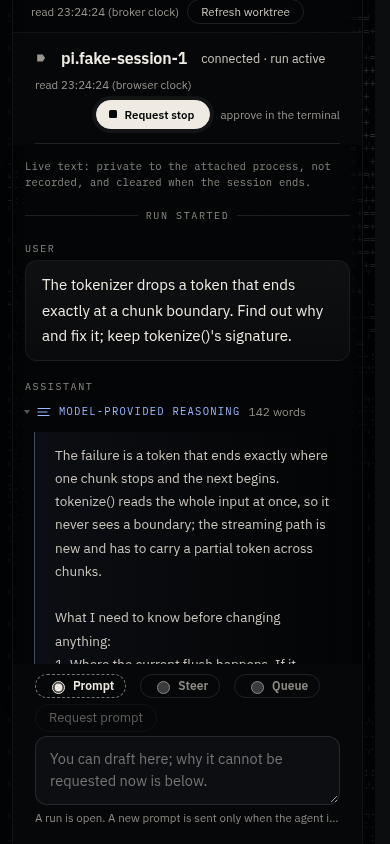
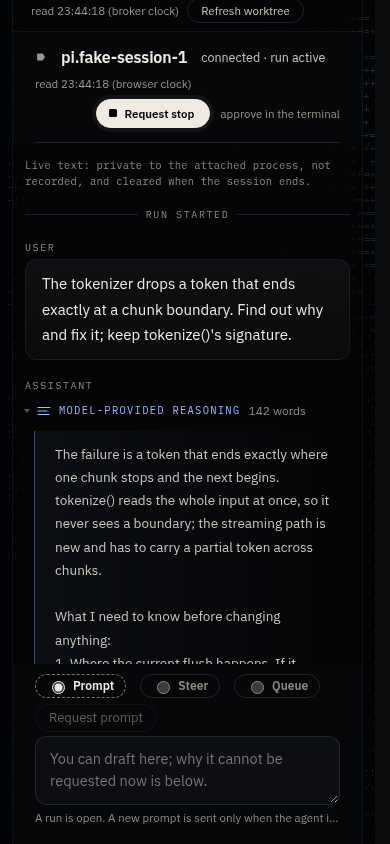
fix(develop): bound the message being written by text too, explain a conversation with no reasoning, wrap a trace's head
The in-progress snapshot now holds a completed message's text budget as
well as its reasoning budget. A conversation whose model supplied no
structured reasoning says why none is shown (and that <think> text is the
answer's text) instead of looking broken. A trace's head wraps as a whole
on a narrow column (Instrument at 390 px squeezed its size to one character
a line). The leak test runs two turns; the docs state precisely that a
recording proxy, where an operator uses one, keeps raw bodies by design and
that this change does not alter that.

Claude-Session: https://claude.ai/code/session_01DgJurqTC52YxUentXHPrdJ

diff --git a/studio-ui/src/model/reasoning.ts b/studio-ui/src/model/reasoning.ts
@@ -6,7 +6,7 @@
 //
 // Display, not configuration: the operator's choice to fold or show reasoning changes what this page draws. It never touches the model's
 // thinking setting, and it is held in page memory only (a reload is the default again).
-import type { MessagePart, ReasoningPart, TranscriptMessage } from "./workbench-wire.ts";
+import type { MessagePart, OpenMessage, ReasoningPart, ReasoningRelay, TranscriptItem } from "./workbench-wire.ts";
 
 /** Folded: each trace is a one-line disclosure. Shown: each trace is open as it arrives. Either way a trace can be opened or folded alone. */
 export type ReasoningMode = "folded" | "shown";
@@ -80,10 +80,29 @@ export function reasoningParts(
 	return out;
 }
 
-/** Whether any reasoning was supplied in a conversation. Only the count of messages with any: never a measure of the reasoning itself. */
-export const messagesWithReasoning = (items: readonly { kind: string }[]): number =>
-	items.filter((i) => i.kind === "message" && (i as TranscriptMessage).parts.some((p) => p.kind === "reasoning"))
-		.length;
+/** How many messages carry any reasoning part. Only a count: never a measure of the reasoning itself. */
+export const messagesWithReasoning = (items: readonly TranscriptItem[]): number =>
+	items.filter((i) => i.kind === "message" && i.parts.some((p) => p.kind === "reasoning")).length;
+
+/**
+ * One sentence for a conversation that shows no reasoning, so its absence is explained rather than looking broken; null when there is
+ * nothing to say (the source relays reasoning and some has arrived, or nothing has been said yet). It never guesses why a model gave none.
+ */
+export function reasoningNotice(
+	relay: ReasoningRelay | null,
+	items: readonly TranscriptItem[],
+	open: OpenMessage | null,
+): string | null {
+	if (relay === null) return null;
+	if (relay.relay === "withheld")
+		return relay.reason ?? "This source withholds model-provided reasoning: none is shown here.";
+	if (relay.relay === "unsupported")
+		return relay.reason ?? "This source does not provide model-provided reasoning: none is shown here.";
+	const assistant = items.some((i) => i.kind === "message" && i.role === "assistant");
+	const anyOpen = open?.parts.some((p) => p.kind === "reasoning") ?? false;
+	if (!assistant || messagesWithReasoning(items) > 0 || anyOpen) return null;
+	return "No model-provided reasoning in this conversation so far. It is shown only when the model supplies it as structured reasoning; reasoning written inside an answer (in <think> tags, for example) is part of the answer's text.";
+}
 
 /** One clause for a trace's head: its place among the message's traces, its size, and what is not shown. */
 export function traceMeta(part: ReasoningPart, ordinal: number, count: number): string {

diff --git a/tests/endo-studio-reasoning-model.test.ts b/tests/endo-studio-reasoning-model.test.ts
@@ -8,6 +8,7 @@ import {
 	formatBytes,
 	preview,
 	reasoningKey,
+	reasoningNotice,
 	traceMeta,
 	utf8Length,
 	visibleText,
@@ -210,6 +211,53 @@ describe("the message being written, in the page's state", () => {
 		expect(held).toBeLessThanOrEqual(MAX_TEXT);
 		expect(s.trimmed).toBe(60 - s.items.length);
 		expect(s.items.at(-1)?.seq).toBe(60);
+	});
+});
+
+describe("a conversation that shows no reasoning says why", () => {
+	const msg = (
+		role: "user" | "assistant",
+		parts: TranscriptItem extends infer _ ? unknown[] : never,
+	): TranscriptItem =>
+		({
+			seq: 1,
+			kind: "message",
+			role,
+			parts,
+			truncated: false,
+			partsDropped: 0,
+			stopReason: null,
+			from: null,
+		}) as TranscriptItem;
+	const relayed = { relay: "relayed" as const, reason: null };
+	it("says nothing before the source has spoken, or before the model has answered, or once reasoning has arrived", () => {
+		expect(reasoningNotice(null, [], null)).toBeNull();
+		expect(
+			reasoningNotice(relayed, [msg("user", [{ kind: "text", text: "hi", truncated: false }])], null),
+		).toBeNull();
+		const withTrace = msg("assistant", [
+			{ kind: "reasoning", state: "supplied", text: "r", truncated: false, bytes: 1 },
+		]);
+		expect(reasoningNotice(relayed, [withTrace], null)).toBeNull();
+		const plain = msg("assistant", [{ kind: "text", text: "<think>x</think>ok", truncated: false }]);
+		expect(
+			reasoningNotice(relayed, [plain], {
+				id: 1,
+				afterSeq: 1,
+				parts: [{ kind: "reasoning", state: "supplied", text: "r", truncated: false, bytes: 1 }],
+			}),
+		).toBeNull();
+	});
+	it("explains an answer without reasoning, and a source that withholds it or has none, never guessing the model's setting", () => {
+		const plain = msg("assistant", [{ kind: "text", text: "<think>x</think>ok", truncated: false }]);
+		const none = reasoningNotice(relayed, [plain], null);
+		expect(none).toMatch(/No model-provided reasoning in this conversation so far/);
+		expect(none).toMatch(/<think>/);
+		expect(none).not.toMatch(/thinking level|turned off|disabled/i);
+		expect(reasoningNotice({ relay: "withheld", reason: null }, [plain], null)).toMatch(/withholds/);
+		expect(reasoningNotice({ relay: "unsupported", reason: "The host has none." }, [], null)).toBe(
+			"The host has none.",
+		);
 	});
 });
 

diff --git a/tests/pi-reasoning-leak.test.ts b/tests/pi-reasoning-leak.test.ts
@@ -1,8 +1,9 @@
 // Model-provided reasoning, end to end through the attached process: a model endpoint that streams `reasoning_content` (as llama.cpp's
-// server does), a Pi that turns it into structured thinking blocks, the attachment, and the workbench broker. Reasoning must reach the
-// broker's private transcript and nothing durable Endophasia writes: not the event store, not the runtime-text side store, not the
-// harness or artifact records. Pi keeps its own session file, as it always does (that is Pi's retention, not Endophasia's evidence), so
-// the scan below leaves Pi's session directory out and says so.
+// server does), a Pi that turns it into structured thinking blocks, the attachment, and the workbench broker, over two turns. Reasoning
+// must reach the broker's private transcript and nothing durable Endophasia writes: not the event store, not the runtime-text side store,
+// not the harness or artifact records. Pi keeps its own session file, as it always does (that is Pi's retention, not Endophasia's
+// evidence), so the scan below leaves Pi's session directory out and says so. No recording proxy is in this path: a proxy, where an
+// operator puts one, records raw HTTP bodies by design (docs/develop-reasoning.md §4), and this change does not alter what it records.
 //
 // The first suite runs always, against the fake Pi (tests/fixtures/fake-pi) in its model-endpoint mode. The second runs only when
 // ENDO_PI_EXECUTABLE names an installed Pi; it is the same check with the real Pi's own openai-completions provider.
@@ -87,8 +88,12 @@ async function run(executable: string, extraEnv: Record<string, string>) {
 			attachment: "pi.default",
 			approver: new Approval().approver,
 		});
-		expect(await session.prompt("Say something short.")).toBe("started");
-		expect(await session.waitForSettled(60_000)).toBe(true);
+		// Two turns: the second model request carries the first turn back to the model (whatever Pi replays of it), so a durable record
+		// made of that request would show here too.
+		for (const prompt of ["Say something short.", "And once more."]) {
+			expect(await session.prompt(prompt)).toBe("started");
+			expect(await session.waitForSettled(60_000)).toBe(true);
+		}
 		const view = broker.transcript.view();
 		await session.close();
 		broker.endSession();

diff --git a/tests/endo-studio-reasoning-browser.test.ts b/tests/endo-studio-reasoning-browser.test.ts
@@ -288,6 +288,44 @@ for (const appearance of ["instrument", "field"] as const) {
 	});
 });
 
+suite("a conversation without model-provided reasoning", () => {
+	it("says why none is shown, and stops saying it once a trace arrives", async () => {
+		const session = new FakeSession();
+		const broker = new WorkbenchBrokerV0({
+			session,
+			key: OTHER_KEY,
+			attachment: "pi.default",
+			approver: new Approval().approver,
+		});
+		const server = await serve(developStore(), { ui, workbench: broker, readBudget: { duty: 1, burstMs: 1e6 } });
+		session.live_(user("Hello."));
+		session.live_(assistant([{ type: "text", text: "<think>not structured</think>Hi." }]));
+		const page = await browser.open(1440, 900);
+		tabs.push(page);
+		await page.goto(`${server.baseUrl}/`);
+		await page.settled();
+		await page.click("button[data-workspace=develop]");
+		await page.waitFor("document.querySelector('[data-testid=live-row]')");
+		await fill(page, "[data-testid=pair-code]", broker.issuePairingCode().code);
+		await page.click("[data-testid=pair-submit]");
+		await page.waitFor("document.querySelector('[data-testid=reasoning-none]')");
+		expect(await page.text("[data-testid=reasoning-none]")).toContain(
+			"No model-provided reasoning in this conversation so far",
+		);
+		expect(await page.text("[data-testid=turn-assistant] .turn-text")).toBe("<think>not structured</think>Hi.");
+		expect(await page.eval<number>("document.querySelectorAll('[data-testid=reasoning]').length")).toBe(0);
+		session.live_(
+			assistant([
+				{ type: "thinking", thinking: "Now structured." },
+				{ type: "text", text: "Done." },
+			]),
+		);
+		await reread(page);
+		await page.waitFor("!document.querySelector('[data-testid=reasoning-none]')");
+		expect(await page.eval<number>("document.querySelectorAll('[data-testid=reasoning]').length")).toBe(1);
+	});
+});
+
 suite("model-provided reasoning across appearances", () => {
 	it("keeps the preference, the hand-opened traces and the draft when the appearance changes", async () => {
 		const { page } = await live("instrument");

diff --git a/studio-ui/src/studio.css b/studio-ui/src/studio.css
@@ -1938,12 +1938,13 @@ table.fields thead th {
 	margin-top: 6px;
 }
 
+/* The head wraps: on a narrow column the size and the preview move to their own lines rather than squeezing to nothing. */
 .reasoning-toggle,
 .reasoning-line {
-	display: grid;
-	grid-template-columns: auto auto auto minmax(0, 1fr);
+	display: flex;
+	flex-wrap: wrap;
 	align-items: center;
-	column-gap: 8px;
+	gap: 2px 8px;
 	width: 100%;
 	margin: 0;
 	padding: 3px 6px 3px 2px;
@@ -1953,10 +1954,6 @@ table.fields thead th {
 	font: inherit;
 	text-align: left;
 	color: var(--fg-3);
-}
-
-.reasoning-line {
-	grid-template-columns: auto auto minmax(0, 1fr);
 }
 
 .reasoning-toggle {
@@ -1977,6 +1974,7 @@ table.fields thead th {
 }
 
 .reasoning-chevron {
+	flex: none;
 	width: 0;
 	height: 0;
 	border-left: 4px solid currentColor;
@@ -1992,6 +1990,7 @@ table.fields thead th {
 
 .strata {
 	display: block;
+	flex: none;
 	color: var(--rep);
 }
 
@@ -2023,7 +2022,8 @@ table.fields thead th {
 
 /* Folded, the first words of the trace follow on the next line, one line only, in the quietest text colour. */
 .reasoning-preview {
-	grid-column: 3 / -1;
+	flex: 1 0 100%;
+	padding-left: 34px;
 	min-width: 0;
 	overflow: hidden;
 	white-space: nowrap;
@@ -2079,6 +2079,11 @@ table.fields thead th {
 	margin: 8px 0 0;
 	font-size: 11.5px;
 	color: var(--fg-3);
+}
+
+.reasoning-notice {
+	margin: 0 0 10px;
+	max-width: 80ch;
 }
 
 /* The display preference: a small radio pair in the conversation's header. */

diff --git a/tests/endo-workbench-reasoning.test.ts b/tests/endo-workbench-reasoning.test.ts
@@ -4,6 +4,7 @@
 import { describe, expect, it } from "vitest";
 import {
 	LIVE_TRANSCRIPT_MAX_BYTES_V0,
+	LIVE_TRANSCRIPT_MAX_MESSAGE_BYTES_V0,
 	LIVE_TRANSCRIPT_MAX_PARTS_V1,
 	LIVE_TRANSCRIPT_MAX_REASONING_BLOCK_BYTES_V1,
 	LIVE_TRANSCRIPT_MAX_REASONING_MESSAGE_BYTES_V1,
@@ -337,6 +338,21 @@ describe("the message being written", () => {
 		expect(part.bytes).toBe(40_000 * 5);
 		expect(Buffer.byteLength(part.text)).toBeLessThanOrEqual(LIVE_TRANSCRIPT_MAX_REASONING_BLOCK_BYTES_V1);
 		expect(part.text.includes("�")).toBe(false);
+	});
+
+	it("holds the snapshot to a completed message's budgets: text across its text parts, reasoning across its reasoning parts", () => {
+		const t = new LiveTranscriptV0();
+		t.push(start());
+		for (let i = 0; i < LIVE_TRANSCRIPT_MAX_PARTS_V1; i++)
+			t.push(
+				update({ type: i % 2 === 0 ? "text_delta" : "thinking_delta", contentIndex: i, delta: "x".repeat(40_000) }),
+			);
+		const parts = t.view().open!.parts;
+		const sum = (kind: string) =>
+			parts.filter((p) => p.kind === kind).reduce((n, p) => n + Buffer.byteLength(p.text), 0);
+		expect(sum("text")).toBeLessThanOrEqual(LIVE_TRANSCRIPT_MAX_MESSAGE_BYTES_V0);
+		expect(sum("reasoning")).toBeLessThanOrEqual(LIVE_TRANSCRIPT_MAX_REASONING_MESSAGE_BYTES_V1);
+		expect(parts.filter((p) => p.truncated).length).toBeGreaterThan(0);
 	});
 
 	it("is cleared with the session and nothing is taken after", () => {

diff --git a/studio-ui/src/develop/Live.tsx b/studio-ui/src/develop/Live.tsx
@@ -16,7 +16,14 @@ import {
 } from "react";
 import { presentLivePi } from "../model/develop-session.ts";
 import { REASON_WORDS } from "../model/project.ts";
-import { type Disclosure, disclosureOf, type ReasoningMode, reasoningKey, reasoningParts } from "../model/reasoning.ts";
+import {
+	type Disclosure,
+	disclosureOf,
+	type ReasoningMode,
+	reasoningKey,
+	reasoningNotice,
+	reasoningParts,
+} from "../model/reasoning.ts";
 import {
 	COMMAND_WORDS,
 	commandOpen,
@@ -441,8 +448,14 @@ function Transcript({ wb, reasoning }: { wb: Workbench; reasoning: ReasoningView
 			/>,
 		);
 	const dropped = state.evicted + state.trimmed;
+	const notice = reasoningNotice(state.reasoning, state.items, state.open);
 	return (
 		<>
+			{notice === null ? null : (
+				<p className="dim small reasoning-notice" data-testid="reasoning-none">
+					{notice}
+				</p>
+			)}
 			{dropped > 0 ? (
 				<Note>Earlier items are no longer held here ({dropped} dropped to stay within the limit).</Note>
 			) : null}

diff --git a/adapters/pi/live-transcript.ts b/adapters/pi/live-transcript.ts
@@ -335,11 +335,17 @@ export class LiveTranscriptV0 {
 	#openView(): LiveTranscriptOpenV1 | null {
 		const open = this.#open;
 		if (open === null) return null;
+		// The same per-message budgets as a completed message: text across its text parts, reasoning across its reasoning parts.
+		let textLeft = LIVE_TRANSCRIPT_MAX_MESSAGE_BYTES_V0;
 		let reasoningLeft = LIVE_TRANSCRIPT_MAX_REASONING_MESSAGE_BYTES_V1;
 		const parts: LiveTranscriptPartV1[] = [...open.blocks.entries()]
 			.sort(([a], [b]) => a - b)
 			.map(([, block]): LiveTranscriptPartV1 => {
-				if (block.kind === "text") return { kind: "text", text: block.text, truncated: block.truncated };
+				if (block.kind === "text") {
+					const shown = cut(block.text, textLeft);
+					textLeft -= bytes(shown.text);
+					return { kind: "text", text: shown.text, truncated: block.truncated || shown.truncated };
+				}
 				const shown = cut(block.text, reasoningLeft);
 				reasoningLeft -= bytes(shown.text);
 				return {

diff --git a/docs/develop-reasoning.md b/docs/develop-reasoning.md
@@ -68,6 +68,7 @@ All in UTF-8 bytes. A cut is made at a character boundary, in linear time, and i
 | The whole transcript | 400 items and 2 MiB of text and reasoning together | oldest items evicted **whole**, counted in `evicted` |
 | One page | 200 items and 512 KiB (always at least one item) | `more: true`; the page reads up to five pages per read |
 | A streamed block | the same per-block bound, counted incrementally (no re-measuring per delta) | cut, received bytes still counted |
+| The message being written | the same per-message budgets as a completed message (32 KiB text, 96 KiB reasoning, 32 parts) | cut, marked |
 | The page's own copy | 400 items and 2 Mi UTF-16 units | oldest items let go, counted, and said: "Earlier items are no longer held here (n dropped …)" |
 
 An item is never changed after it is issued, because the page never re-reads a sequence number it holds, so eviction removes items
@@ -89,10 +90,16 @@ Reasoning is treated exactly as the live transcript's text always was, because i
   `tests/endo-studio-ui-source.test.ts` checks the `fieldSignal(...)` call.
 - **Pi's own retention is Pi's.** Pi keeps its session file, thinking included, as it always does. That is not Endophasia's evidence,
   and the leak test below says so by leaving Pi's session directory out of its scan.
+- **A recording proxy records what passes through it.** If the operator routes the model's traffic through Endophasia's recording
+  proxy (the capture that consumption checks read), the proxy keeps raw HTTP request and response bodies in `<store>/capture/blobs/`,
+  outside canonical evidence, by design. Those bodies already hold whatever reasoning the provider streamed, and whatever Pi replays
+  of earlier turns. They hold it exactly as they hold the answer text. This change does not add to, read from or alter that record.
+  The transcript and everything built here write nothing.
 
-`tests/pi-reasoning-leak.test.ts` drives a model endpoint that streams `reasoning_content` with a sentinel, through a Pi, the attachment
-and the broker. It checks that the sentinel reaches the transcript as a reasoning part and **no byte of it is in any file under the
-store** (events, side store, harness and artifact records). It runs always against the fake Pi, and with `ENDO_PI_EXECUTABLE` against an
+`tests/pi-reasoning-leak.test.ts` drives a model endpoint that streams `reasoning_content` with a sentinel, over **two turns** (so the
+second request carries the first back), through a Pi, the attachment and the broker. No recording proxy is in that path. It checks that the
+sentinel reaches the transcript as a reasoning part and **no byte of it is in any file under the store** (events, side store, harness and
+artifact records), outside Pi's own session directory. It runs always against the fake Pi, and with `ENDO_PI_EXECUTABLE` against an
 installed Pi. It was run against Pi 1.0.1 for this change, where Pi's own provider turned the stream into a thinking block, in order
 before the answer.
 
@@ -144,6 +151,9 @@ Both appearances share these components (`develop/Reasoning.tsx`, `model/reasoni
   re-judges that, so a long trace opened near the bottom is read from its top. The next arrival does not pull the reader down. The
   message being written grows without the "New items below" cue. Turns are memoised by item, so a read that brings nothing new for a turn
   does not redraw it.
+- **A conversation with no reasoning says so.** When the source relays reasoning but no answer has carried any, one line under the
+  privacy note explains that reasoning is shown only when supplied in structured form, and that `<think>` text inside an answer is the
+  answer's text. It never guesses the model's setting. A source that withholds reasoning or has none gives its own reason.
 - **Keyboard and assistive technology.** Disclosures are buttons with `aria-expanded` and `aria-controls`. The preference is a radio group
   with a legend. Folded bodies are not in the DOM.
 

diff --git a/docs/develop-field.md b/docs/develop-field.md
@@ -210,6 +210,15 @@ screenshots of both appearances at 390 px, 1180, 1366, 1440 and 2560.
 1. Brightening the terrain made it show through the ledger's words in the live arrival: a legibility regression from pass 2. The
    arrival surface now has its own dark clearing behind the text, with the terrain kept at its edges.
 
+**Pass 4** (after a review of the finished branch):
+1. In Instrument on a 390 px phone, a trace's head collapsed: its size wrapped one character per line ("1", "4", "2") beside a label that
+   cannot wrap. The head now wraps as a whole, so the size and the preview move to their own lines.
+2. A conversation whose model supplied no structured reasoning showed no disclosures and gave no reason. That is likely when a local
+   server leaves reasoning inside the answer as `<think>` text. One line now says that reasoning is shown only when supplied in
+   structured form, and that `<think>` text is the answer's text.
+3. Changing the reasoning preference while changes were being read lost the conversation's place on return. The hidden scroller was
+   judged, and it reported the reader at the bottom. A hidden scroller is no longer judged; a browser test fails without the fix.
+
 What was kept after review:
 - STOP's explanatory sentence wraps under it when it supersedes a waiting steer. STOP is still the first, filled control in the strip.
 - The beacon outranks the dashed texture while the broker is unreachable and a request waits: the request waits whatever the
@@ -249,7 +258,7 @@ Its refinements remain in force:
   - pause and reduced motion stop frames;
   - unreachable is drawn dashed;
   - and, new, the composition: the drawer, the dock, STOP in view with the dock closed, and the draft kept.
-- `tests/endo-studio-reasoning-browser.test.ts` (11, both appearances):
+- `tests/endo-studio-reasoning-browser.test.ts` (13, both appearances):
   - folded by default;
   - the keyboard;
   - the clamp and *Show the whole trace*;
@@ -258,7 +267,9 @@ Its refinements remain in force:
   - the reader's place kept while opening traces and while new items arrive;
   - the draft untouched;
   - no request made for the preference;
-  - everything kept across an appearance switch.
+  - everything kept across an appearance switch;
+  - the conversation's place kept when the preference changes during review;
+  - the no-reasoning line, shown, then gone once a trace arrives.
 
 **Limits.**
 - **Synthetic screenshots.** Every screenshot here is of synthetic fixtures. The live path was exercised through the fake Pi and through
